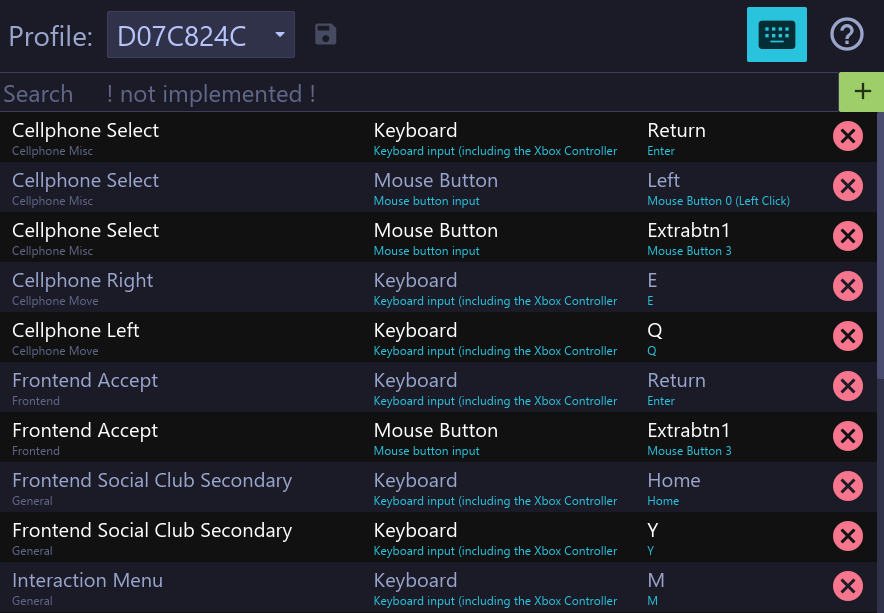
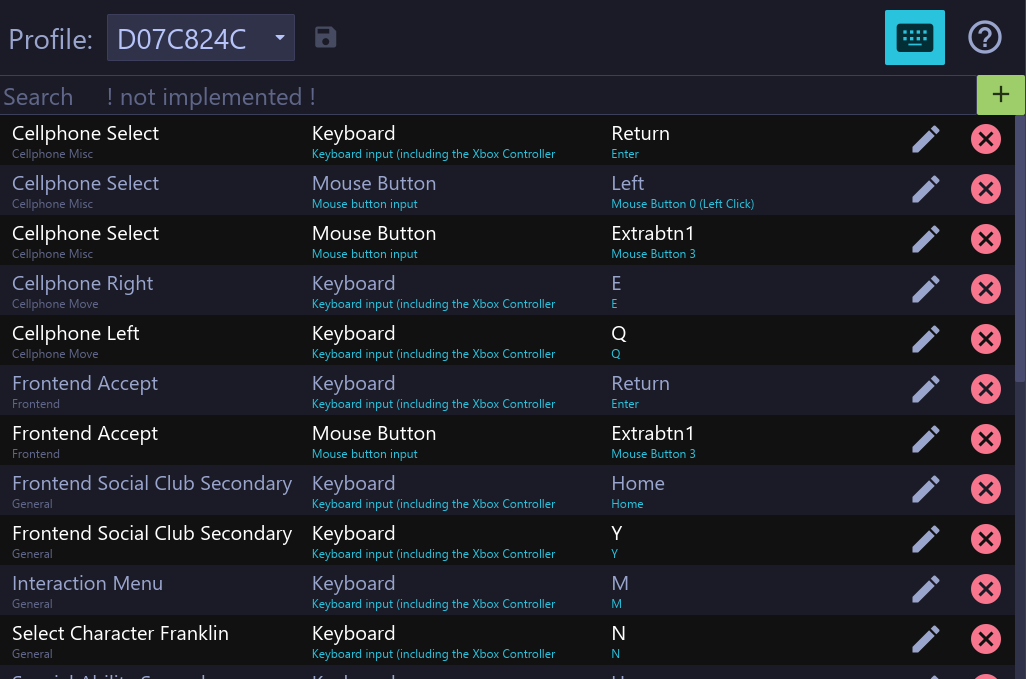
docs: updated some of the screenshots and added modify_keybind to readme

diff --git a/README.md b/README.md
@@ -29,6 +29,9 @@ Keybinding Page <br>
 New Keybind <br>
 ![](/assets/ss/new_keybind.png)
 
+Modify Keybind <br>
+![](/assets/ss/modify_keybind.png)
+
 Unsaved Changes <br>
 ![](/assets/ss/unsaved_changes.png)
 
